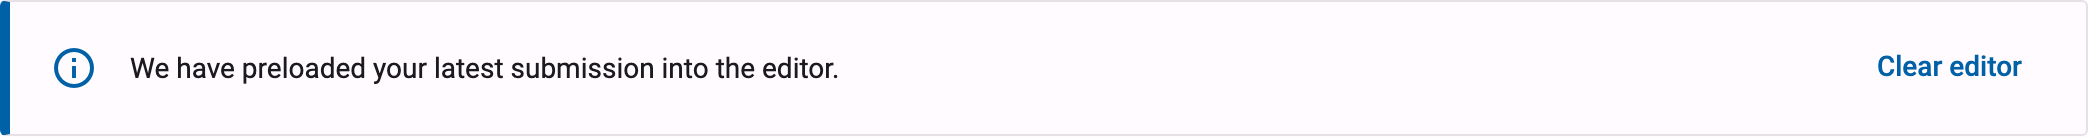
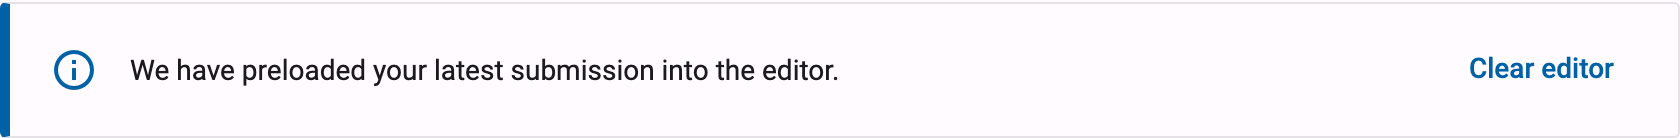
Re-shoot the screenshots recent docs PRs left behind
The activity page redesign, the papyros restyle and the theme menu rows
left several images showing the old UI, and the new-result notice and
theme menu sections had no image. The capture runner now emulates
reduced motion so entrance animations don't leave progress bars grey.

diff --git a/nl/guides/students/exercises/index.md b/nl/guides/students/exercises/index.md
@@ -71,6 +71,8 @@ Nadat je op `Indienen` geklikt hebt, wordt je oplossing in een wachtrij geplaats
 
 Het beoordelen loopt gewoon door terwijl je naar iets anders kijkt. Open je een eerdere oplossing in de indiengeschiedenis, of klik je op `Bewerken en herindienen`, terwijl je laatste oplossing nog beoordeeld wordt, dan blijft het paneel tonen wat je geopend hebt. Bovenaan het indienpaneel verschijnt dan de melding `Nieuw resultaat!` met de status van je nieuwe oplossing; klik in die melding op `Bekijk resultaat` om de feedback ervan te openen. De melding verdwijnt zodra je het resultaat opent of een nieuwe oplossing indient.
 
+![Indienpaneel met een eerdere correcte oplossing, met de melding Nieuw resultaat! en de knop Bekijk resultaat boven de feedback](./handin-result-notice-nl.png)
+
 Vanuit de feedback kan je meteen verder werken aan je code: klik op `Deze oplossing bewerken` (of op `Bewerken en herindienen` onderaan het paneel) om de code van de getoonde oplossing terug in de editor te laden. Had je nog niet-ingediende wijzigingen in de editor staan, dan keer je met de knop `Terug naar editor` terug naar de editor zoals je die achterliet.
 
 Als je terugkeert naar een oefening waarvoor je al eerder hebt ingediend, dan bevat de editor automatisch de code van je laatst ingediende oplossing. Een infomelding boven de editor, `We hebben jouw laatste oplossing ingeladen in de editor.`, vertelt je dat dit gebeurd is. Begin je liever opnieuw? De knop naast die melding zet de voorbeeldcode van de oefening terug (`Zet de voorbeeldcode terug`) of maakt, als de oefening geen voorbeeldcode heeft, de editor leeg (`Maak de editor leeg`).

diff --git a/en/guides/students/exercises/index.md b/en/guides/students/exercises/index.md
@@ -71,6 +71,8 @@ After you click `Submit`, your solution is placed in a queue and evaluated by th
 
 Judging continues while you look at something else. If you open an earlier submission from the submission history, or click `Edit & resubmit`, while your latest solution is still being judged, the panel keeps showing what you opened. A `New result!` message then appears at the top of the hand-in panel with the status of your new submission; click `View result` in that message to open its feedback. The message disappears once you open the result or hand in a new solution.
 
+![Hand-in panel showing an earlier correct submission, with the New result! message and its View result button above the feedback](./handin-result-notice-en.png)
+
 From the feedback you can go straight back to improving your code: click `Edit this submission` (or `Edit & resubmit` at the bottom of the panel) to load the code of the submission you are viewing back into the editor. If you had unsubmitted changes in the editor, the `Back to editor` button returns to the editor exactly as you left it.
 
 When you return to an exercise you have submitted for before, the editor automatically contains the code of your latest submission. An info message above the editor, `We have preloaded your latest submission into the editor.`, tells you this happened. Prefer to start over? The button next to that message restores the exercise's initial code (`Restore the initial code`) or, if the exercise has none, empties the editor (`Clear editor`).

diff --git a/nl/guides/students/login-and-settings/index.md b/nl/guides/students/login-and-settings/index.md
@@ -81,4 +81,6 @@ Je kunt deze mededeling enkel weghalen door in je gebruikersprofiel de tijdzone 
 
 Dodona heeft een licht en een donker thema. Open het gebruikersmenu aan de rechterkant van de navigatiebalk en kies `Licht`, `Donker` of `Systeem` onder de titel `Stijl`. Kies je `Systeem` (de standaardinstelling), dan volgt Dodona de voorkeur van je apparaat.
 
+![Open gebruikersmenu met de opties Licht, Donker en Systeem onder de titel Stijl](./user-menu-theme-nl.png)
+
 Net als je taal wordt de gekozen stijl opgeslagen in je gebruikersprofiel, zodat Dodona ze onthoudt wanneer je opnieuw aanmeldt.

diff --git a/en/guides/students/login-and-settings/index.md b/en/guides/students/login-and-settings/index.md
@@ -81,5 +81,7 @@ You can only remove this notification by setting the time zone in your user prof
 
 Dodona has a light and a dark theme. Open the user menu on the right side of the navigation bar and choose `Light`, `Dark`, or `System` under the `Theme` heading. If you select `System` (the default), Dodona follows the theme preference of your device.
 
+![Open user menu with the Light, Dark and System options under the Theme heading](./user-menu-theme-en.png)
+
 Just like your language, your selected theme is stored in your user profile, so Dodona remembers it the next time you sign in.
 
